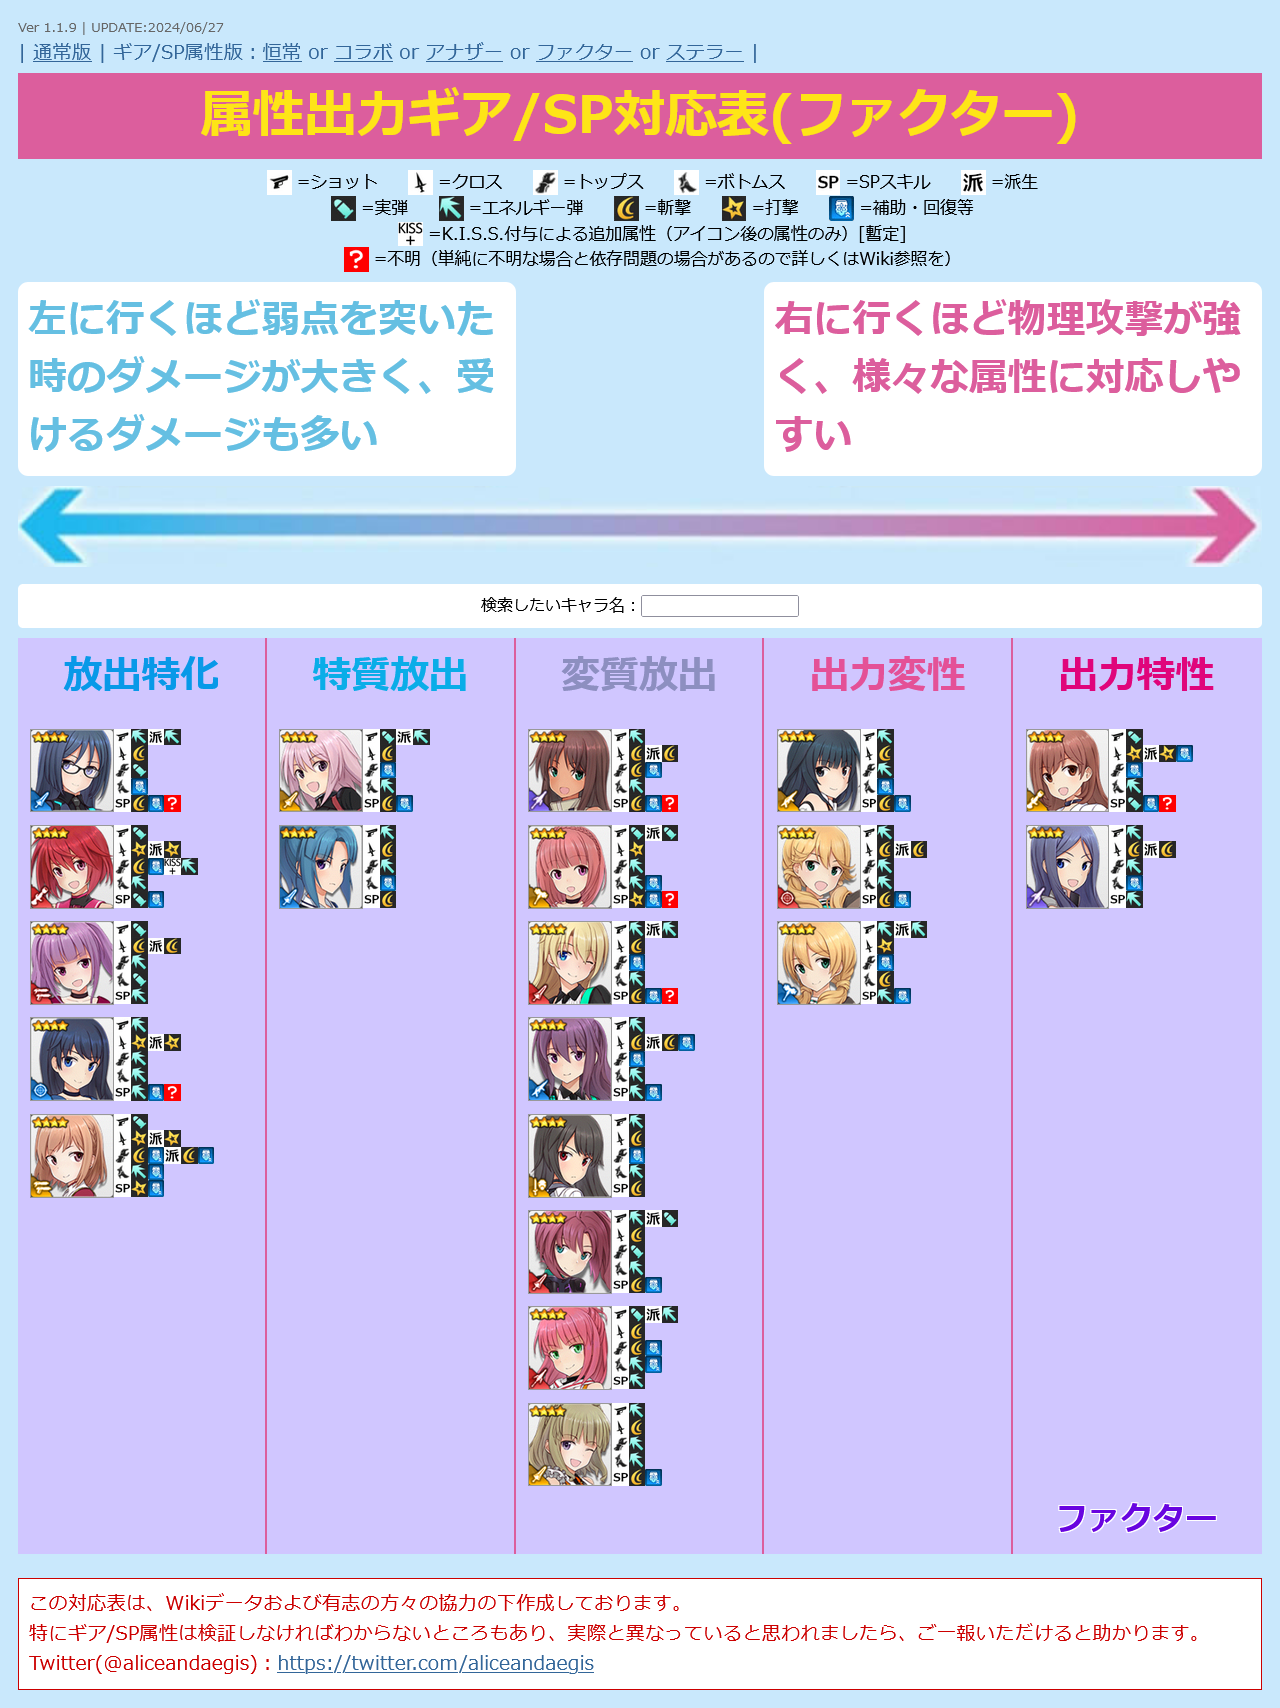
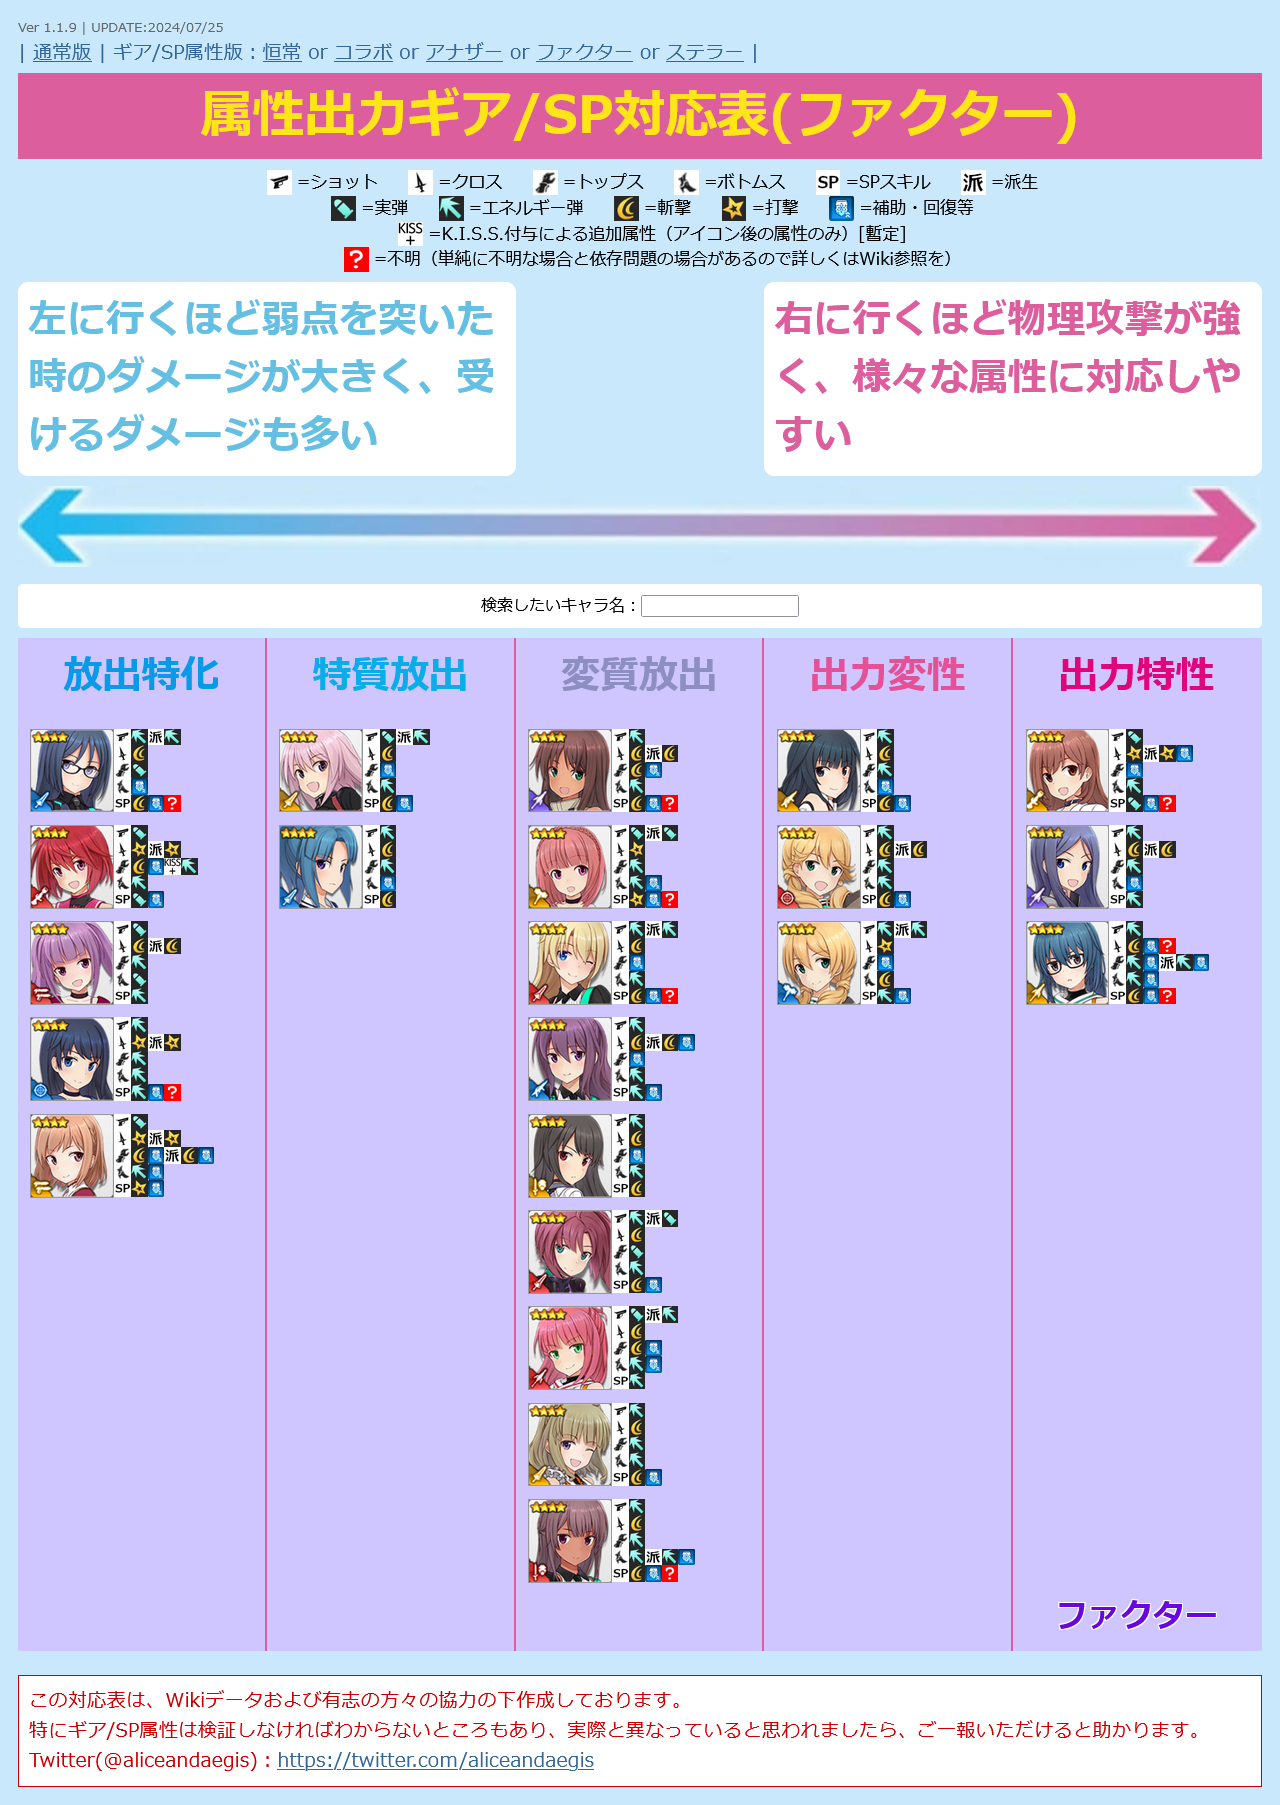
UPDATE charadata
・ファクター ファティマ・ベトロラム / ライブを追加
・ファクター 伊戸倉 音緒 / ライブを追加

Changed region(s): [[0.0, 0.0, 1.0, 0.993]]

diff --git a/alice.html b/alice.html
@@ -12,7 +12,7 @@
   <script>
 
 /* 更新情報 必要に応じて書き換えてください */
-  var version = "Ver 1.1.9 | UPDATE:2024/07/11";
+  var version = "Ver 1.1.9 | UPDATE:2024/07/25";
 
 
 /*
@@ -1363,7 +1363,7 @@
       "equip2": "4/45",
       "equip3": "2",
       "equip4": "1",
-      "sp": "1?",
+      "sp": "1",
       "attr": "2",
       "link": "https://wikiwiki.jp/alicegear/%E3%82%B7%E3%83%A3%E3%83%BC%E3%83%AA%E3%83%BC%E3%83%BB%E3%82%AA%E3%83%BC%E3%82%AF%E3%83%AC%E3%82%A4/%E3%83%81%E3%83%A3%E3%83%AA%E3%82%AA%E3%83%83%E3%83%88",
       "category": "12"
@@ -1593,6 +1593,20 @@
       "category": "10"
     },
     {
+      "id": "42",
+      "type": "3",
+      "src": "factor-fatima.png",
+      "name": "ファティマ・ベトロラム / ライブ",
+      "equip1": "2",
+      "equip2": "3",
+      "equip3": "2",
+      "equip4": "2/25",
+      "sp": "35?",
+      "attr": "3",
+      "link": "https://wikiwiki.jp/alicegear/%E3%83%95%E3%82%A1%E3%83%86%E3%82%A3%E3%83%9E%E3%83%BB%E3%83%99%E3%83%88%E3%83%AD%E3%83%A9%E3%83%A0/%E3%83%A9%E3%82%A4%E3%83%96",
+      "category": "11"
+    },
+    {
       "id": "43",
       "type": "2",
       "src": "normal-mira.png",
@@ -1759,6 +1773,20 @@
       "attr": "1",
       "link": "https://wikiwiki.jp/alicegear/%E4%BC%8A%E6%88%B8%E5%80%89%E9%9F%B3%E7%B7%92%E7%A0%B4%E6%89%8B",
       "category": "10"
+    },
+    {
+      "id": "48",
+      "type": "5",
+      "src": "factor-neo.png",
+      "name": "伊戸倉 音緒 / ライブ",
+      "equip1": "2",
+      "equip2": "35?",
+      "equip3": "25/25",
+      "equip4": "25",
+      "sp": "35?",
+      "attr": "1",
+      "link": "https://wikiwiki.jp/alicegear/%E4%BC%8A%E6%88%B8%E5%80%89%E9%9F%B3%E7%B7%92/%E3%83%A9%E3%82%A4%E3%83%96",
+      "category": "11"
     },
     {
       "id": "49",
